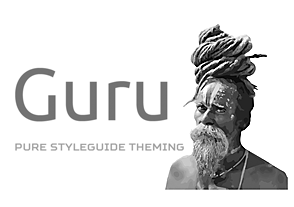
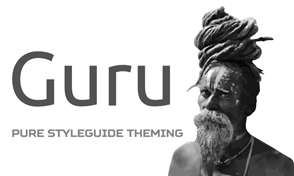
Update Readme and screenshot.

Changed region(s): [[0.0306, 0.0284, 1.0, 1.0], [0.0306, 0.2841, 0.3367, 0.625], [0.3673, 0.3693, 0.5816, 0.625]]

diff --git a/README.md b/README.md
@@ -1,18 +1,18 @@
 # Drupal 8 Guru Theme
 
-Guru is Drupal 8 theme base with kss styleguide. 
+Guru is a Drupal 8 base theme with kss styleguide. 
 
-It's not a ready made out of the box theme you just need to enable, but a a gulp based theme workflow to enable _in browser_ style _guide driven_ theme development.
+It's not a ready made out of the box theme you just need to enable, but a a gulp based theme workflow to enable _in browser_ style _guide driven_ and mobile first theme development.
 
 ### Target audience
 
 Target audience for the guru theme are frontend developers want to use [SMACSS](https://smacss.com/) to structure SCSS and [KSS](http://warpspire.com/kss/) to document the SCSS code.
 
-The focus of Guru theme is fastest possible compillation of SCSS and a documentation of code.
+The focus of Guru theme is fastest possible compilation of SCSS and a documentation of code.
 
-By rendering a living styleguide out of the SCSS comments section (think of it as PHP doc for SCSS) you gonna have great reference for your Co-workers, PM's and Designers. It will help you to avoid CSS bloat because you and your team will know what you allready have implemented and enable you a high level of code reuse.   
+By rendering a living styleguide out of the SCSS comments section (think of it as PHP doc for SCSS) you gonna have great reference for your Co-workers, PM's and Designers. It will help you to avoid CSS bloat because you and your team will know what you already have implemented and enable you a high level of code reuse.   
 
-The look and feel of the theme is entirely in your own hands, but you gonna have a bunch of features enabeling high development speed:  
+The look and feel of the theme is entirely in your own hands. You will have a bunch of features enhancing development speed and tons of examples rendering into a full styleguide. The styleguide comes with a template and can be adapted to your requirements very easily.
  
  
 ### Workflow Features
@@ -33,7 +33,7 @@ The look and feel of the theme is entirely in your own hands, but you gonna have
 - Automated minifying of JS and CSS code
 - Compatibility ie 9+ (like drupal core)
 - Drush based subtheme generation
-- Compatible with docker environements and vagrant (Drupal vdd) 
+- Compatible with Docker environements and Vagrant (Drupal VDD) 
 
 
 ### Design features
@@ -46,6 +46,8 @@ Design features are not considered as the main focus of this theme, but there ar
 - Browser indicator to show your window with and breakpoints and check if the size of you links fit tab standards.
 - Based on drupal core classy theme, giving you well known css class names
 - Layout examples for the Grid system
+- Tons of Styleguide-ready SCSS comments rendering into a styleguide structured by SMACSS principles  
+
 
 
 ### Dependencies
@@ -59,6 +61,8 @@ You  **need the drupal module link_css** to make browserSync working!
 Here is the reason:
 https://github.com/BrowserSync/browser-sync/issues/10
 
+
+
 **Other dependencies**
 
 
@@ -70,8 +74,8 @@ https://github.com/BrowserSync/browser-sync/issues/10
 ## Getting started
 
 **Create a subtheme**
-You may rename the theme according to your needs or create a subtheme with drush.
-Make sure using drush8. Lullabot tells you [how to use multiple drush versions](https://www.lullabot.com/articles/switching-drush-versions).
+You should create a subtheme with drush.
+Lullabot tells you [how to use multiple drush versions](https://www.lullabot.com/articles/switching-drush-versions).
  
 
 In order to create a subtheme with drush, guru theme needs to be installed and set as default!
@@ -134,6 +138,13 @@ and check the styleguide in /themes/[theme folder]/styleguide/
 
 
 ## More readings about the theme
+
+Introduction and howto video on Youtube
+https://www.youtube.com/watch?v=EcyXh4REaQk
+Complementary slides.
+http://slides.com/digitaldonkey/drupal-8-guru-theme-intro
+
+8.1.x Version
 
 Checkout presentation at Drupalcamp Essen 2015
 http://drupalcamp-essen.de/15/session/creating-a-gulp-based-d8-theme-with-browsersync
@@ -297,6 +308,10 @@ cd [theme folder]
 gulp serve --env=production
 ```
 
+**Inline your styleguide**
+
+There is a very simple drupal module you may use to include the Stylguide in the frontend of your site.
+But this module is more diy than productione ready. https://www.drupal.org/sandbox/digitaldonkey/2655300.
     
 ### Digging deeper
 
